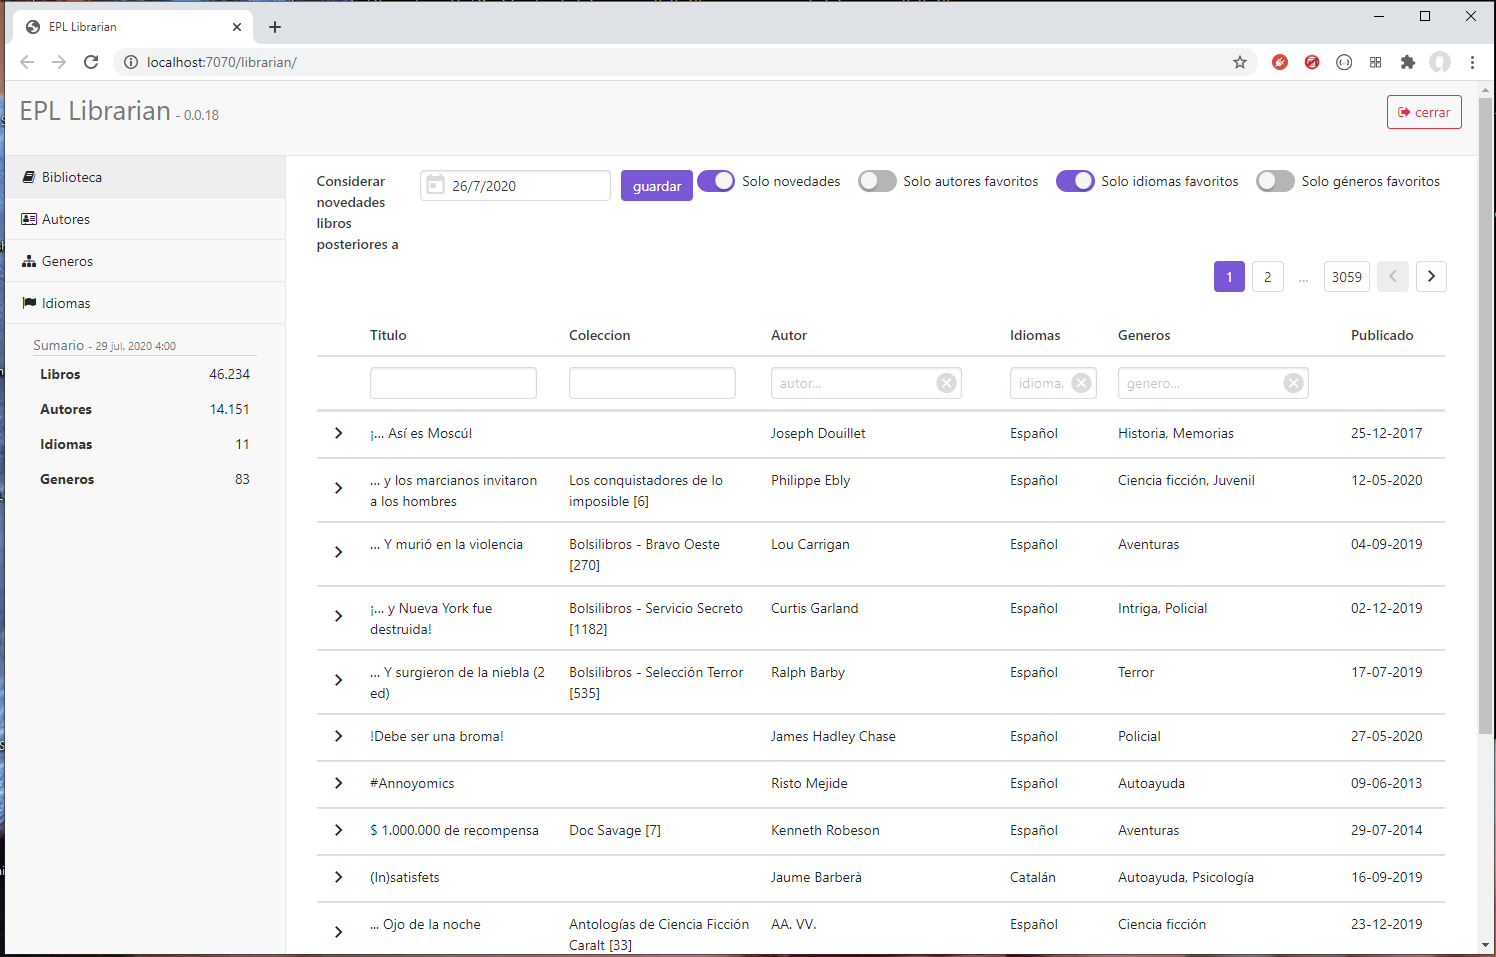
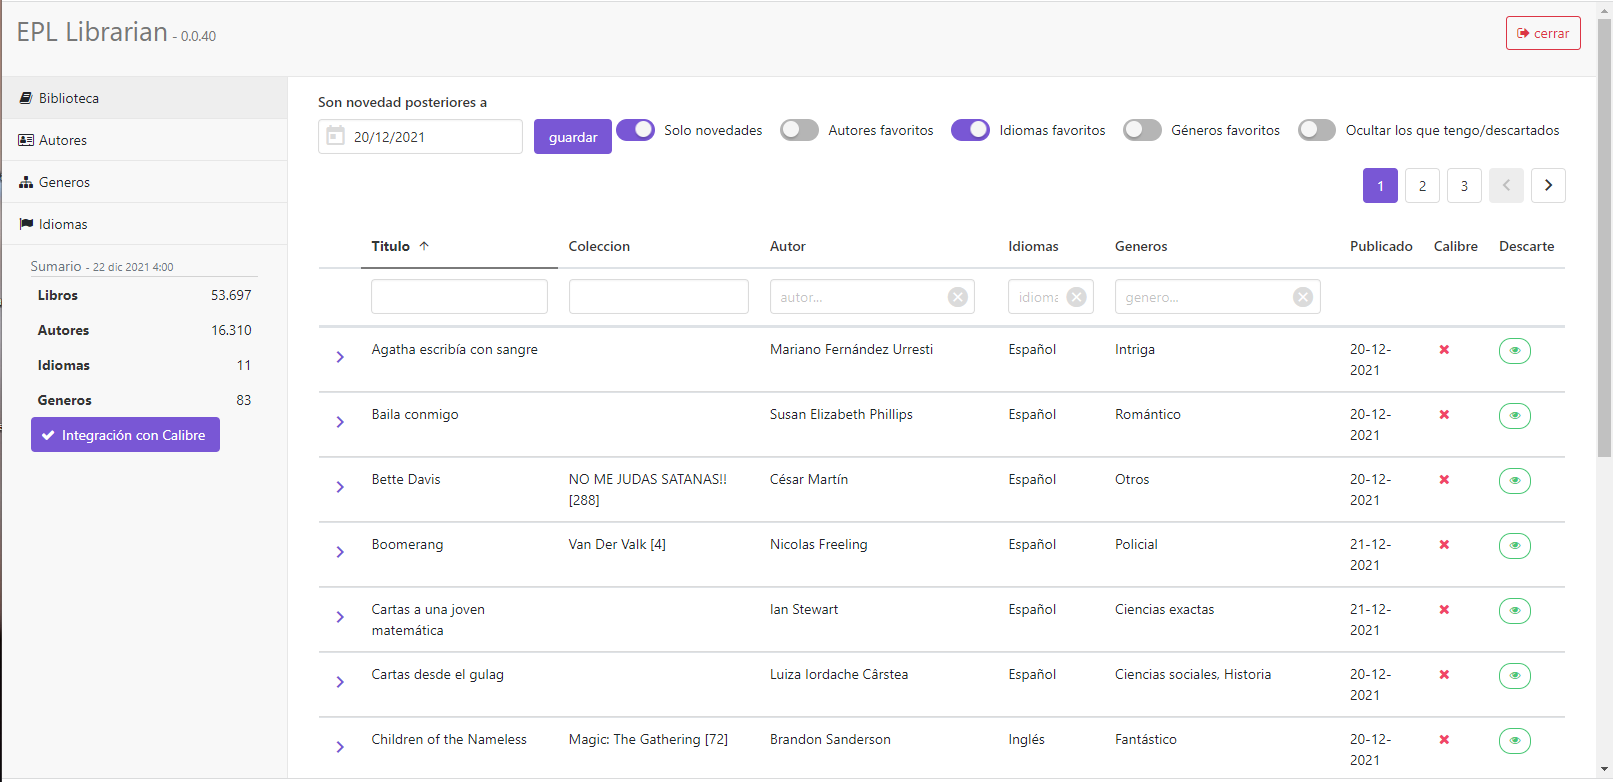
Actualización de la documentación

diff --git a/README.md b/README.md
@@ -25,14 +25,14 @@ Hay que tener en cuenta que:
 * Modo '**superportable**'. Si queremos que el programa no cree ningún fichero fuera del directorio del programa, podemos pasarle el flag ```-Dsuperportable=true```. En ese caso, el fichero de preferencias y los ficheros temporales/backup de las descargas se almacenaran el el mismo directorio desde donde se lanza el programa, en los directorios .librariany y tmp. **Ojo** Eso quiere decir que al cambiar de versión del programa, tendremos que copiar las preferencias (directorio .librarian) y los ficheros temporales (directorio tmp) para no perder esos datos.
 
 ## Integración, opcional, con Calibre
-Si tenemos instalado el software para gestión de libros [Calibre](https://calibre-ebook.com/es) en el mismo ordenador donde ejecutar EPL Librarian y queremos que nos compruebe los libros que tenemos, podemos hacerlo especificándole donde se encuentra la biblioteca de Calibre en nuestro ordenador en las preferencias.
+Si tenemos instalado el software para gestión de libros [Calibre](https://calibre-ebook.com/es) en el mismo ordenador donde se ejecuta EPL Librarian y queremos que nos compruebe los libros que tenemos, podemos hacerlo especificándole donde se encuentra la biblioteca de Calibre en nuestro ordenador, en las preferencias, de la siguiente forma:
 
 Con el EPL Librarian apagado, editamos el fichero $HOME/.librarian/preferences.properties ( EPL Librarian nos indica la localización exacta en la consola al arrancar ) y añadimos una propiedad ```calibre_home``` indicándonle el camino a la biblioteca en formato "properties de Java"(el directorio donde Calibre guarda su fichero metadata.db).
 Por ejemplo, si Calibre guarda los libros en un directorio 'D:\Libros' podríamos añadir a preferences.properties la siguiente linea
 calibre_home=D\:\\Libros
 Es necesario añadir las barras inversas '\' antes de los caracteres ':' y '\' para evitar que haya problemas, ya que esos caracteres son especiales en los ficheros de properties.
 
-Al arrancar EPL Librarian nos indicará que integración con calibre está habilitada, tardará un poco más en arrancar y en la biblioteca aparecera una nueva columna que nos indicará, para cada libro, si se ha encontrado dicho libre en nuestra biblioteca Calibre.
+Al arrancar EPL Librarian nos indicará que integración con calibre está habilitada, tardará un poco más en arrancar y en la biblioteca aparecera unas nuevas columnas que nos indicarán, para cada libro, si se ha encontrado dicho libre en nuestra biblioteca Calibre y si ese libro lo "descartamos". También nos aparecerá un filtro nuevo para ocultar los libros que ya tengamos en nuestra biblioteca de Calibre y/o los que hayamos descartado. Para descartar o habilitar de nuevo un libro basta con hacer click en el simbolo del ojo en la fila correspondiente. De esta forma es muy sencillo saber si tenemos todos los libros que nos interesan de nuestros autores favoritos, simplemente marcando los filtros de "autores favoritos", "idiomas favoritos" y "ocultar libros que tenemos y los descartados".
 
 La comprobación mira el título exacto del libro y sus autores, por lo que puede ser que no encuentre algún libro que no tenga exactamente el mismo título (p.e. 'El Camel Club' vs 'Camel Club') o que tenga alguna errata en el nombre (p.e. 'James S.A. Corey' vs 'James S. A. Corey'). Se ha optado por quedarse corto y decir que hay libros que no tenemos, por pequeñas diferencias en los datos, que posibilitar los errores al reves y dar por hecho que tenemos ciertos libros por ser demasiado generosos en las comprobaciones.
 
@@ -40,11 +40,11 @@ La comprobación mira el título exacto del libro y sus autores, por lo que pued
 El programa ofrece varios listados
 
 ### Listado principal (libros)
-En este listado se muestran los datos básicos de los libros y se puede filtrar y ordenar por distintos criterios (título, colección, autor, idioma, género). En este listado se puede escoger una fecha (indicada por "Considerar novedades libros posteriores a") para que únicamente se muestres los libros disponibles en ePubLlibre a partir de esa fecha. Para que el filtro se lleve a cabo hay que activar el interruptor "Solo novedades". Si le damos al botón de guardar almacenará la fecha y la recordará para posteriores arranques. Por otro lado, si hemos marcado como favoritos algunos idiomas, generos o autores, podemos activar los filtros para que solo se muestren los libros que cumplan esos criterios.
+En este listado se muestran los datos básicos de los libros y se puede filtrar y ordenar por distintos criterios (título, colección, autor, idioma, género). En este listado se puede escoger una fecha (indicada por "Considerar novedades libros posteriores a") para que únicamente se muestres los libros disponibles en ePubLlibre a partir de esa fecha. Para que el filtro se lleve a cabo hay que activar el interruptor "Solo novedades". Si le damos al botón de guardar almacenará la fecha y la recordará para posteriores arranques. Por otro lado, si hemos marcado como favoritos algunos idiomas, generos o autores, podemos activar los filtros para que solo se muestren los libros que cumplan esos criterios. Si tenemos activa la integración con calibre también tendremos el filtro de ocultar los libros que ya tenemos o que hemos descartado, y veremos las columnas correspondientes a esos valores.
 
 ![Imagen de la página principal](https://raw.githubusercontent.com/Verdoso/epl_librarian/master/docs/Screen_Principal.PNG)
 
-Podemos ampliar la información de cada libro, haciendo clic en la marca al lado del título, y así podremos ver más detalles del libro y el enlace magnet ofrecido por EPL.
+Podemos ampliar la información de cada libro, haciendo clic en la marca al lado del título, y así podremos ver más detalles del libro, como la sinopsis, la portada, un enlace a la página del libro en EPL y los enlaces magnet ofrecidos por EPL.
 
 ![Imagen del detalle de un libro](https://raw.githubusercontent.com/Verdoso/epl_librarian/master/docs/Screen_Detalle.PNG)
 
